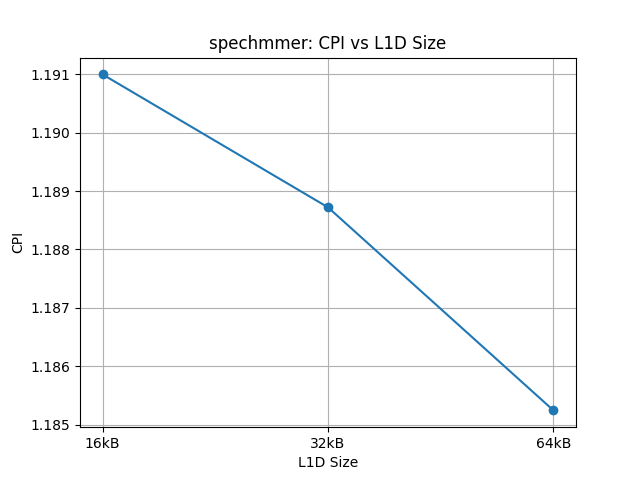
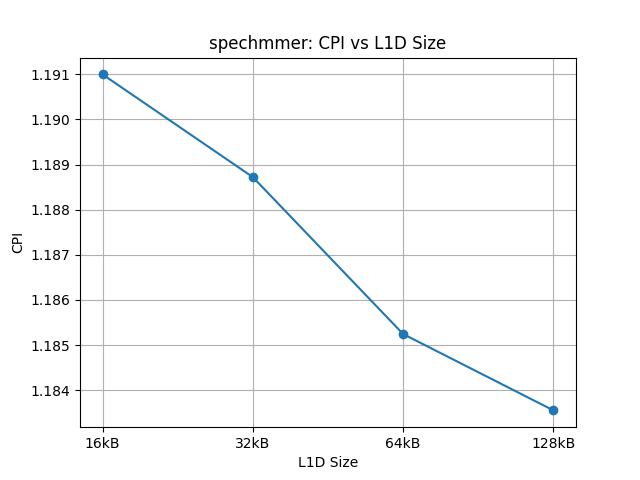
Performance optimization comments for speclibm and specsjeng

diff --git a/plotting/spechmmer-performance.py b/plotting/spechmmer-performance.py
@@ -16,9 +16,9 @@ base_l2_size = "2MB"
 base_l2_assoc = "8"
 base_line_size = "64"
 
-l1i_sizes = ["16kB", "32kB"]
-l1d_sizes = ["16kB", "32kB", "64kB"]
-l2_sizes = ["1MB", "2MB"]
+l1i_sizes = ["16kB", "32kB", "64kB"]
+l1d_sizes = ["16kB", "32kB", "64kB", "128kB"]
+l2_sizes = ["1MB", "2MB", "4MB"]
 
 def get_cpi_from_stats(stats_path):
     if not os.path.isfile(stats_path):

diff --git a/README.md b/README.md
@@ -488,4 +488,76 @@ The values tested were:
 - **L1D size**: 16, 32, 64, 128 kB
 - **L2 size**: 1, 2, 4 MB
 
-### Question 3
+### Question 2
+
+In this section, we present the results of our design exploration to optimize system performance. For each benchmark, we have generated graphs illustrating the impact of the tested cache parameters on the CPI. Below, we provide a detailed analysis of these results for each benchmark, explaining the observed behaviors and commenting on instances where increasing cache resources yielded diminishing returns or even degraded performance.
+
+#### **speclibm**
+
+`speclibm` is a bandwidth-intensive benchmark characterized by a high CPI and an extremely high L2 miss rate in the baseline configuration. We explored the impact of L1D size, L1D associativity, L2 size, L2 associativity, and cache line size on its performance.
+
+**L1 Data Cache Size:**
+
+![L1D Size Impact on CPI (speclibm)](./assets/speclibm/cpi_vs_l1d_size.png)
+
+As observed in the plot, varying the L1 data cache size had no impact on the benchmark's CPI. Although a smaller L1D size could potentially reduce hit time, it did not translate into a performance improvement for this specific workload. This suggests that the baseline 64kB size is already sufficient for the L1 working set, and further increases or decreases in L1 data cache size do not provide benefits.
+
+**L1 Data Cache Associativity:**
+
+![L1D Associativity Impact on CPI (speclibm)](./assets/speclibm/cpi_vs_l1d_assoc.png)
+
+Increasing the associativity to 4 from the baseline of 2 had no noticeable impact on CPI. However, reducing the associativity to 1 (a direct-mapped cache) led to an increase in CPI. While direct-mapped caches can offer lower hit time in memory accesses, they are more prone to conflict misses. In this case, the increase in conflict misses outweighed any benefit from reduced hit latency, negatively impacting performance.
+
+**L2 Cache Size:**
+
+![L2 Size Impact on CPI (speclibm)](./assets/speclibm/cpi_vs_l2_size.png)
+
+Surprisingly, increasing the L2 cache size resulted in a higher CPI. We initially hypothesized that a larger L2 cache might reduce the extremely high baseline L2 miss rate (near 1.0). However, the results indicate that the working set of `speclibm` is likely too large to fit even in a 4MB L2 cache. Consequently, the larger cache did not solve the miss rate problem but instead increased the L2 hit latency, leading to a higher overall CPI.
+
+**L2 Cache Associativity:**
+
+![L2 Associativity Impact on CPI (speclibm)](./assets/speclibm/cpi_vs_l2_assoc.png)
+
+Varying the L2 cache associativity had no impact on the benchmark's CPI, confirming that conflict misses in the L2 cache are not the primary bottleneck for this workload.
+
+**Cache Line Size:**
+
+![Cache Line Size Impact on CPI (speclibm)](./assets/speclibm/cpi_vs_line_size.png)
+
+Cache line size significantly influenced performance. As anticipated for a benchmark that operates on large arrays and grids, `speclibm` benefits from spatial locality. Increasing the cache line size allows more data to be fetched on each miss, potentially satisfying future references. Analysis of the `stats.txt` files confirms that larger cache line sizes decreased the overall miss rates in both the L1D and L2 caches. The plot shows that a smaller 32B line size degrades performance, while increasing it from the 64B baseline to 128B provides a modest improvement in CPI.
+
+#### **specsjeng**
+
+`specsjeng` is an integer benchmark (a chess engine) that uses complex data structures involving trees and pointer chasing. In the baseline configuration, it exhibited the highest CPI and poor miss rates in both L1D and L2 caches. We explored the same parameters as in `speclibm`, to see how they impact `specsjeng`'s performance.
+
+**L1 Data Cache Size:**
+
+![L1D Size Impact on CPI (specsjeng)](./assets/specsjeng/cpi_vs_l1d_size.png)
+
+The plot indicates that increasing the L1 data cache size led to improvements in CPI. However, it is important to note the scale of the y-axis; the differences between the tested sizes are extremely small (in the magnitude of $10^{-5}$). While larger sizes are technically better, the baseline 64kB is effectively sufficient, and further increases yield negligible real-world performance gains for this workload.
+
+**L1 Data Cache Associativity:**
+
+![L1D Associativity Impact on CPI (specsjeng)](./assets/specsjeng/cpi_vs_l1d_assoc.png)
+
+The results for L1D associativity mirror those of `speclibm`. Increasing associativity from the baseline of 2 to 4 showed no impact on CPI. Conversely, reducing the cache to direct-mapped (associativity of 1) significantly degraded performance. This confirms that `specsjeng` is susceptible to conflict misses in the L1 data cache, and at least 2-way associativity is necessary to mitigate them.
+
+**L2 Cache Size:**
+
+![L2 Size Impact on CPI (specsjeng)](./assets/specsjeng/cpi_vs_l2_size.png)
+
+In contrast to `speclibm`, increasing the L2 cache size up to 4MB improved the performance of `specsjeng`, resulting in a lower CPI. We observed from the statistics that the overall L2 miss *rate* did not change with the size increase. However, the clear reduction in CPI indicates that the larger cache was nevertheless effective. It likely captured a larger portion of the working set, reducing the *total count* of expensive main memory accesses, even if the ratio of misses to total L2 accesses remained high.
+
+**L2 Cache Associativity:**
+
+![L2 Associativity Impact on CPI (specsjeng)](./assets/specsjeng/cpi_vs_l2_assoc.png)
+
+Increasing L2 associativity resulted in a very slight increase in CPI. These changes are negligible (affecting only the fourth decimal place of the CPI), suggesting that the slight increase in access latency caused by higher associativity outweighed any benefit from reduced conflict misses.
+
+**Cache Line Size:**
+
+![Cache Line Size Impact on CPI (specsjeng)](./assets/specsjeng/cpi_vs_line_size.png)
+
+This parameter yielded the most significant and surprising results for this benchmark. We initially hypothesized that `specsjeng` would not benefit from larger cache lines due to its reliance on tree data structures, which typically exhibit poor spatial locality. This hypothesis was proven wrong by the data.
+
+Moving from the baseline 64B line size to 128B dramatically decreased the CPI from approximately 7.5 down to near 5. Analysis of the `stats.txt` files confirmed a significant decrease in the L1 D-cache miss rate with larger lines. This suggests that despite the pointer-based nature of the workload, the tree nodes are likely allocated contiguously in memory, allowing the larger lines to successfully prefetch related data.
